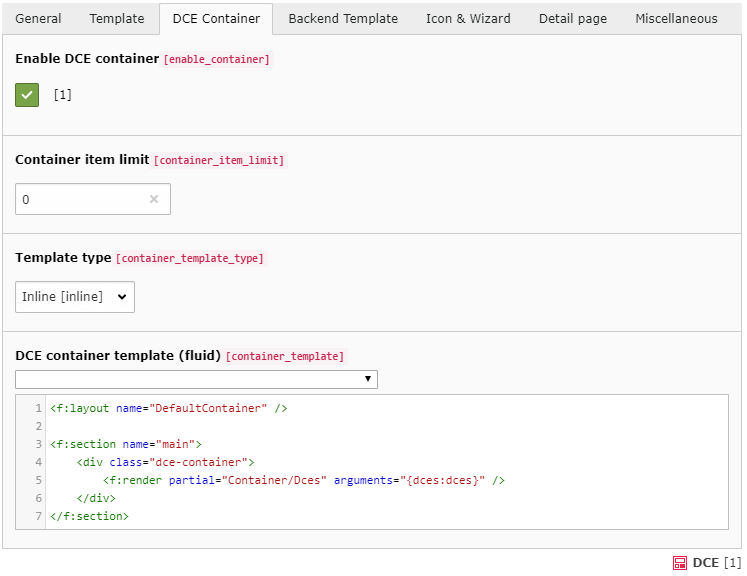
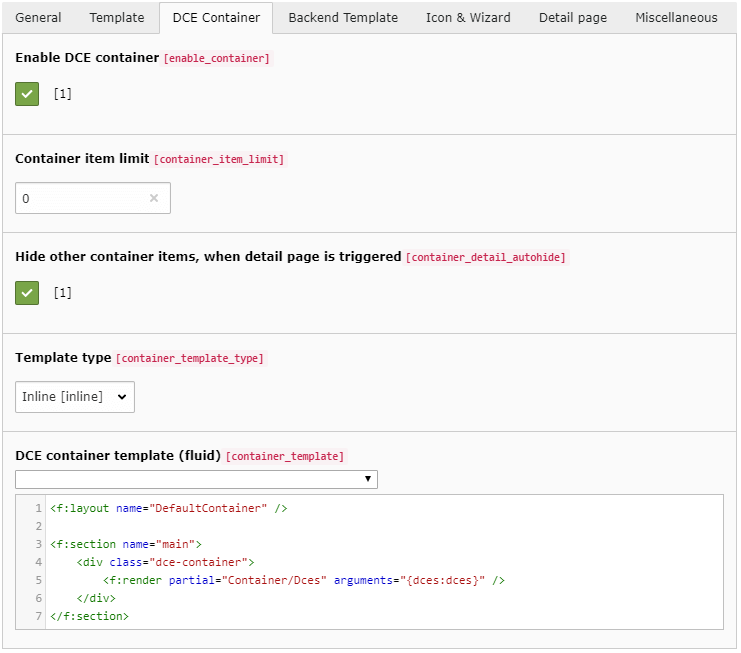
[FEATURE] Add new option "container_detail_autohide"
When the DCE container **and** the detail page feature is enabled,
this option makes it more comfortable to hide all other content elements,
which' detail page template is not triggered.

Changed region(s): [[0.0, 0.0625, 1.0, 1.0], [0.0, 0.0, 0.9933, 0.1875], [0.0, 0.2188, 0.776, 0.4688]]

diff --git a/Classes/Domain/Model/Dce.php b/Classes/Domain/Model/Dce.php
@@ -147,6 +147,11 @@ class Dce extends AbstractEntity
     protected $containerItemLimit = 0;
 
     /**
+     * @var bool
+     */
+    protected $containerDetailAutohide = true;
+
+    /**
      * @var string
      */
     protected $containerTemplateType = '';
@@ -653,6 +658,24 @@ class Dce extends AbstractEntity
     }
 
     /**
+     * @return bool
+     */
+    public function isContainerDetailAutohide(): bool
+    {
+        return $this->containerDetailAutohide;
+    }
+
+    /**
+     * @param bool $containerDetailAutohide
+     * @return self
+     */
+    public function setContainerDetailAutohide(bool $containerDetailAutohide): self
+    {
+        $this->containerDetailAutohide = $containerDetailAutohide;
+        return $this;
+    }
+
+    /**
      * @return string
      */
     public function getContainerTemplateType(): string
@@ -863,13 +886,25 @@ class Dce extends AbstractEntity
      */
     public function render(): string
     {
-        if ($this->getEnableDetailpage()) {
-            $detailUid = (int) GeneralUtility::_GP($this->getDetailpageIdentifier());
-            if ($detailUid && (int) $this->getContentObject()['uid'] === $detailUid) {
-                return $this->renderDetailpage();
-            }
+        if ($this->isDetailPageTriggered()) {
+            return $this->renderDetailpage();
         }
         return $this->renderFluidTemplate();
+    }
+
+    /**
+     * Checks if the display of detail page is triggered (by GET parameter in current request).
+     * Always returns false, if detail page is not enabled for this DCE.
+     *
+     * @return bool
+     */
+    public function isDetailPageTriggered(): bool
+    {
+        if ($this->getEnableDetailpage()) {
+            $detailUid = (int) GeneralUtility::_GP($this->getDetailpageIdentifier());
+            return $detailUid && (int) $this->getContentObject()['uid'] === $detailUid;
+        }
+        return false;
     }
 
     /**

diff --git a/Configuration/TCA/tx_dce_domain_model_dce.php b/Configuration/TCA/tx_dce_domain_model_dce.php
@@ -19,7 +19,7 @@ $showItems = <<<TEXT
     template_type,template_content,template_file,
 
 --div--;${ll}tx_dce_domain_model_dce.container,
-    enable_container,container_item_limit,
+    enable_container,container_item_limit,container_detail_autohide,
     container_identifier,container_template_type,container_template,container_template_file,
 
 --div--;${ll}tx_dce_domain_model_dce.backendTemplate,
@@ -562,6 +562,20 @@ $dceTca = [
                 'eval' => 'num',
                 'default' => 0,
                 'size' => 2,
+            ],
+        ],
+        'container_detail_autohide' => [
+            'exclude' => 0,
+            'label' => $ll . 'tx_dce_domain_model_dce.containerDetailAutohide',
+            'displayCond' => [
+                'AND' => [
+                    'FIELD:enable_container:=:1',
+                    'FIELD:enable_detailpage:=:1'
+                ]
+            ],
+            'config' => [
+                'type' => 'check',
+                'default' => '1'
             ],
         ],
         'container_template_type' => [

diff --git a/Classes/Components/DceContainer/Container.php b/Classes/Components/DceContainer/Container.php
@@ -69,6 +69,12 @@ class Container
      */
     public function render() : string
     {
+        foreach ($this->dces as $dceInContainer) {
+            if ($dceInContainer->isContainerDetailAutohide() && $dceInContainer->isDetailPageTriggered()) {
+                $this->view->assign('dces', [$dceInContainer]);
+                return $this->view->render();
+            }
+        }
         $this->view->assign('dces', $this->dces);
         return $this->view->render();
     }

diff --git a/Classes/Components/DceContainer/ContainerFactory.php b/Classes/Components/DceContainer/ContainerFactory.php
@@ -47,7 +47,7 @@ class ContainerFactory
         $total = \count($contentElements);
         foreach ($contentElements as $index => $contentElement) {
             try {
-                /** @var Dce $dce */
+                /** @var Dce $dceInstance */
                 $dceInstance = clone Extbase::bootstrapControllerAction(
                     'T3',
                     'Dce',

diff --git a/Documentation/UsersManual/DceContainer.rst b/Documentation/UsersManual/DceContainer.rst
@@ -44,6 +44,17 @@ You can set an item limit (default: 0 / disabled) to limit the number of content
 When the the limit is reached, the next content element starts a new container.
 
 
+Hide other container items, when detail page is triggered
+=========================================================
+
+When the DCE container **and** the detail page feature is enabled, this option makes it more comfortable to hide
+all other content elements, which' detail page template is not triggered.
+
+When this checkbox is enabled, all items in a container are hidden, if one item in the container is triggered by
+detail page GET parameter. In this case, the container template is still rendered, just with a single item.
+Other containers are not affected.
+
+
 Template type
 =============
 

diff --git a/Documentation/UsersManual/DetailPage.rst b/Documentation/UsersManual/DetailPage.rst
@@ -62,6 +62,11 @@ Actually, it is pretty easy to create such a link in Fluid template:
 Hide other content elements
 ~~~~~~~~~~~~~~~~~~~~~~~~~~~
 
+.. tip::
+   Since DCE 2.3, with enabled DCE container feature, you can automatically hide all other container items.
+   Check out the option, "Hide other container items, when detail page is triggered" in DCE Container options.
+   This checkbox is only available, when DCE container **and** detail page features are enabled.
+
 If you have more DCEs with detail templates on one page, the template will just switch for one of your content elements.
 The other DCE will still be visible and displays the normal template.
 
